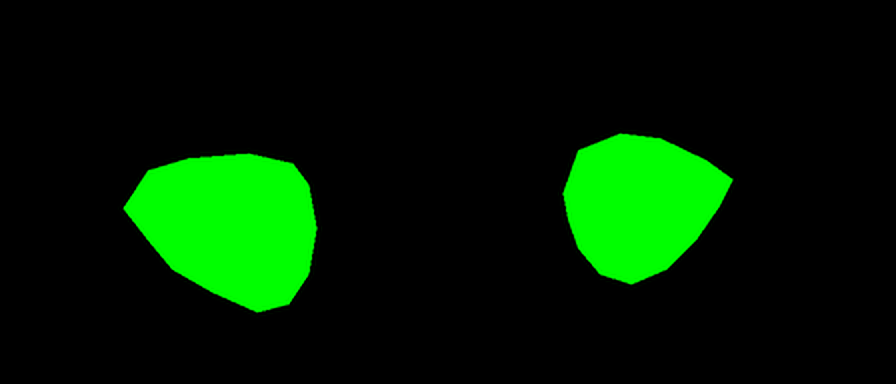
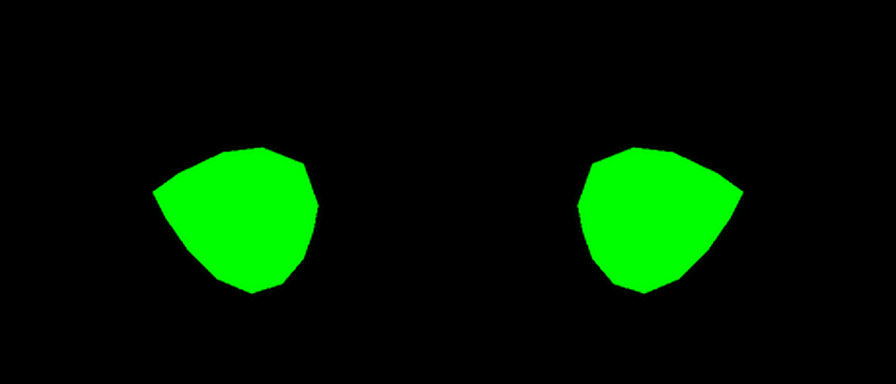
Her eyes made symmetric: both eyes now use the cleaner (screen-right) eye of the restored layers, mirrored for the other eye (iris copied unmirrored so the highlights stay on the same side, like the sheet), same size or slightly smaller than before (20.6 x 18.3 units), placed mirror-symmetric; blink

Changed region(s): [[0.625, 0.3438, 0.8438, 0.7812], [0.125, 0.4062, 0.375, 0.8125], [0.25, 0.375, 0.3438, 0.4688]]

diff --git a/index.html b/index.html
@@ -5624,7 +5624,7 @@ const CharView = (() => {
       eyesF: [[-32.6, -14.1, -7.3, 3.4], [14.2, 33.4, -7.8, 3.6]], pe: 120, skin: '#d2a87f' },
     f: { K: 0.0023, xref: 730.4, rows: [[0.132, 0, -0.012, -0.012], [0.12, 0.058, 0.05, -0.078], [0.1, 0.085, 0.078, -0.106], [0.07, 0.1, 0.095, -0.12], [0.04, 0.106, 0.103, -0.125], [0.01, 0.106, 0.104, -0.124], [-0.015, 0.104, 0.1, -0.121], [-0.03, 0.101, 0.096, -0.117], [-0.045, 0.097, 0.097, -0.108], [-0.053, 0.094, 0.098, -0.096], [-0.065, 0.087, 0.099, -0.064], [-0.085, 0.077, 0.104, -0.028], [-0.1, 0.068, 0.1, -0.005], [-0.114, 0.055, 0.092, 0.02], [-0.127, 0.04, 0.087, 0.046], [-0.136, 0.029, 0.084, 0.064], [-0.142, 0.019, 0.082, 0.073], [-0.146, 0.009, 0.08, 0.077], [-0.148, 0, 0.079, 0.079]],
       nose: [[-0.022, 0], [-0.032, 0.002], [-0.043, 0.0045], [-0.053, 0.0095], [-0.061, 0.0165], [-0.066, 0.02], [-0.071, 0.0135], [-0.077, 0.004], [-0.082, 0]], lips: [-0.088, 0.0055], relief: { eye: [0.053, -0.028], ck: 0.8 }, ear: [-0.047, -0.052],
-      eyesF: [[-40.6, -16.5, -8.8, 11], [14.4, 35.5, -11.3, 7.6]], pe: 179.4, skin: '#d6a784' } };
+      eyesF: [[-36.8, -16.2, -9.525, 8.775], [16.2, 36.8, -9.525, 8.775]], pe: 179.4, skin: '#d6a784' } };
   // body skin (neck, hands, legs): the face atlas's median skin with the same tint, Lambert lighting and emissive lift as the projected head, so there is no tone step at the jaw
   // soft anime shading on skin: a gentle, wide gradient away from the key light (far cheek, under the chin), on top of the flat concept colour;
   // on the head it is masked off the front of the face (eyes, nose, mouth) except the underside of the jaw

diff --git a/src/char3d.js b/src/char3d.js
@@ -601,7 +601,7 @@ const CharView = (() => {
       eyesF: [[-32.6, -14.1, -7.3, 3.4], [14.2, 33.4, -7.8, 3.6]], pe: 120, skin: '#d2a87f' },
     f: { K: 0.0023, xref: 730.4, rows: [[0.132, 0, -0.012, -0.012], [0.12, 0.058, 0.05, -0.078], [0.1, 0.085, 0.078, -0.106], [0.07, 0.1, 0.095, -0.12], [0.04, 0.106, 0.103, -0.125], [0.01, 0.106, 0.104, -0.124], [-0.015, 0.104, 0.1, -0.121], [-0.03, 0.101, 0.096, -0.117], [-0.045, 0.097, 0.097, -0.108], [-0.053, 0.094, 0.098, -0.096], [-0.065, 0.087, 0.099, -0.064], [-0.085, 0.077, 0.104, -0.028], [-0.1, 0.068, 0.1, -0.005], [-0.114, 0.055, 0.092, 0.02], [-0.127, 0.04, 0.087, 0.046], [-0.136, 0.029, 0.084, 0.064], [-0.142, 0.019, 0.082, 0.073], [-0.146, 0.009, 0.08, 0.077], [-0.148, 0, 0.079, 0.079]],
       nose: [[-0.022, 0], [-0.032, 0.002], [-0.043, 0.0045], [-0.053, 0.0095], [-0.061, 0.0165], [-0.066, 0.02], [-0.071, 0.0135], [-0.077, 0.004], [-0.082, 0]], lips: [-0.088, 0.0055], relief: { eye: [0.053, -0.028], ck: 0.8 }, ear: [-0.047, -0.052],
-      eyesF: [[-40.6, -16.5, -8.8, 11], [14.4, 35.5, -11.3, 7.6]], pe: 179.4, skin: '#d6a784' } };
+      eyesF: [[-36.8, -16.2, -9.525, 8.775], [16.2, 36.8, -9.525, 8.775]], pe: 179.4, skin: '#d6a784' } };
   // body skin (neck, hands, legs): the face atlas's median skin with the same tint, Lambert lighting and emissive lift as the projected head, so there is no tone step at the jaw
   // soft anime shading on skin: a gentle, wide gradient away from the key light (far cheek, under the chin), on top of the flat concept colour;
   // on the head it is masked off the front of the face (eyes, nose, mouth) except the underside of the jaw
